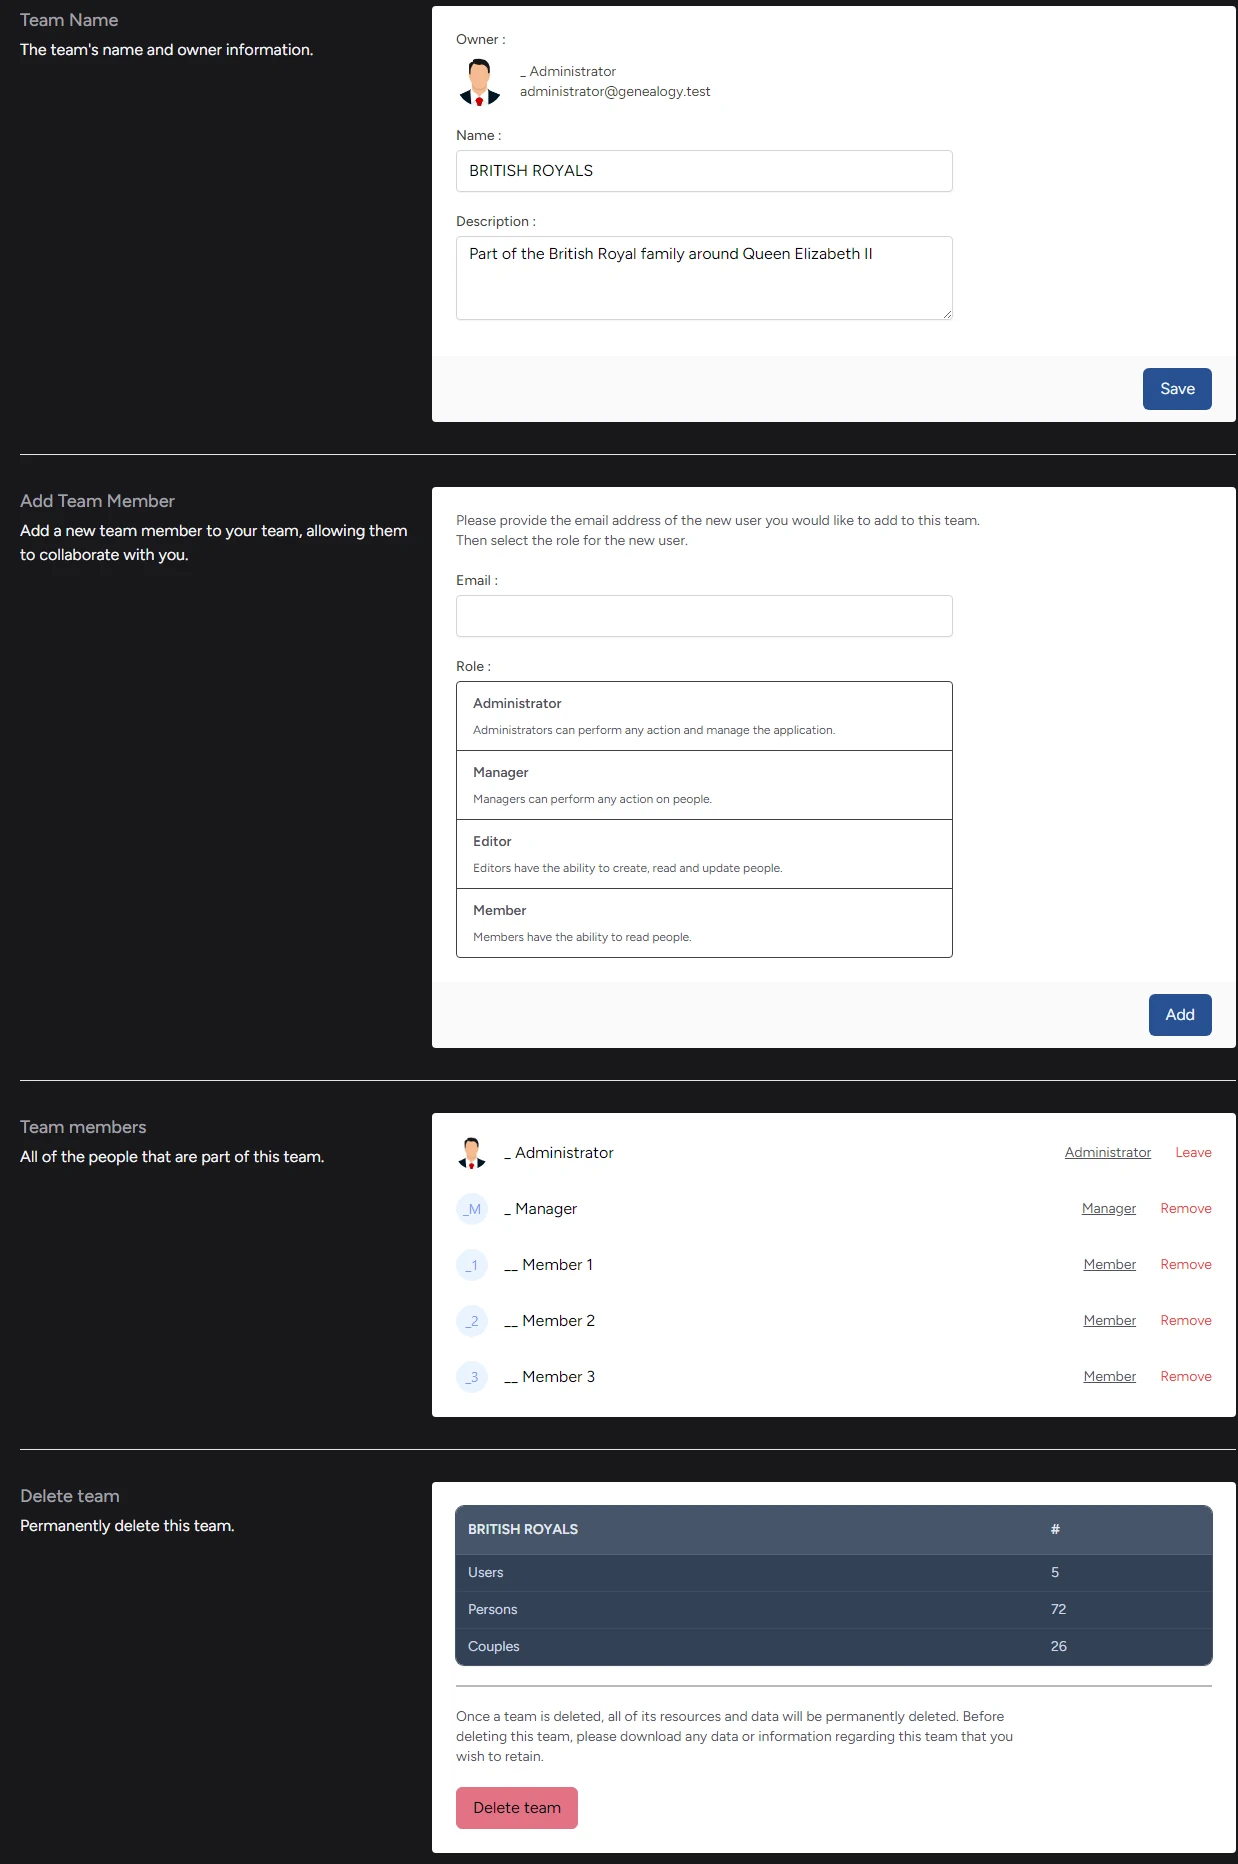
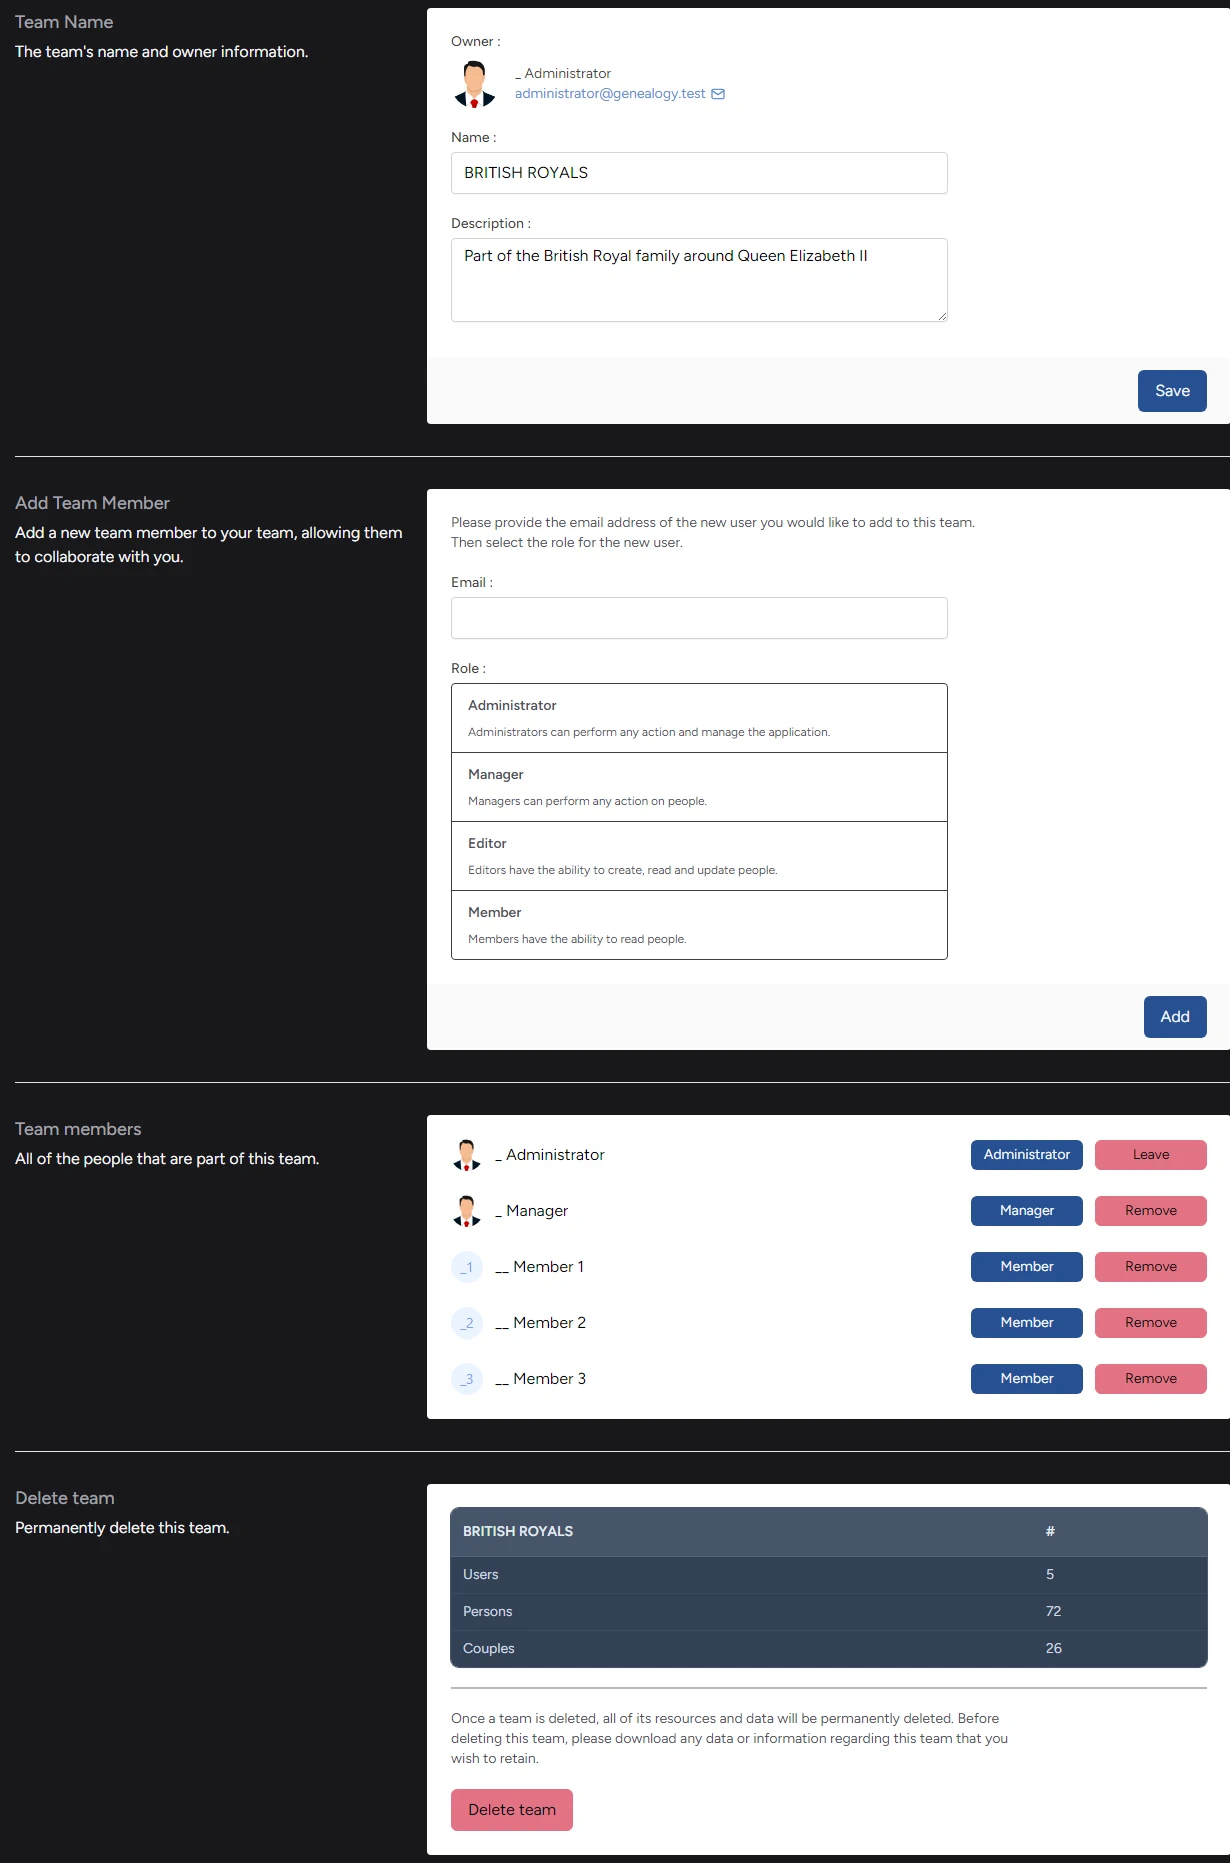
Improved Api Manager and Team Member Manager

diff --git a/resources/views/teams/team-member-manager.blade.php b/resources/views/teams/team-member-manager.blade.php
@@ -144,33 +144,34 @@
                         @foreach ($team->users->sortBy('name') as $user)
                             <div class="flex items-center justify-between">
                                 <div class="flex items-center">
-                                    <img class="w-8 h-8 rounded-full object-cover" src="{{ $user->profile_photo_url }}" alt="{{ $user->name }}">
-                                    <div class="ms-4">{{ $user->name }}</div>
+                                    <img class="size-8 rounded-full object-cover" src="{{ $user->profile_photo_url }}" alt="{{ $user->name }}">
+                                    <div class="ms-3">{{ $user->name }}</div>
                                 </div>
 
                                 <div class="flex items-center">
                                     {{-- manage team member role --}}
                                     @if (Gate::check('updateTeamMember', $team) && Laravel\Jetstream\Jetstream::hasRoles())
-                                        <button class="ms-2 text-sm text-gray-600 underline" wire:click="manageRole('{{ $user->id }}')">
+                                        <x-ts-button sm class="min-w-28 ms-3 text-sm" wire:click="manageRole('{{ $user->id }}')" title="{{ __('team.change_role') }}">
                                             {{ Laravel\Jetstream\Jetstream::findRole($user->membership->role)->name }}
-                                        </button>
+                                        </x-ts-button>
                                     @elseif (Laravel\Jetstream\Jetstream::hasRoles())
-                                        <div class="ms-2 text-sm text-gray-600">
+                                        <div class="min-w-28 ms-3 text-sm">
                                             {{ Laravel\Jetstream\Jetstream::findRole($user->membership->role)->name }}
                                         </div>
                                     @endif
 
                                     {{-- leave team --}}
                                     @if ($this->user->id === $user->id)
-                                        <button class="cursor-pointer ms-6 text-sm text-red-500" wire:click="$toggle('confirmingLeavingTeam')">
+                                        <x-ts-button color="danger" sm class="min-w-28 ms-3 text-sm" wire:click="$toggle('confirmingLeavingTeam')" title="{{ __('team.leave_team') }}">
                                             {{ __('team.leave') }}
-                                        </button>
+                                        </x-ts-button>
 
                                         {{-- remove team member --}}
                                     @elseif (Gate::check('removeTeamMember', $team))
-                                        <button class="cursor-pointer ms-6 text-sm text-red-500" wire:click="confirmTeamMemberRemoval('{{ $user->id }}')">
+                                        <x-ts-button color="danger" sm class="min-w-28 ms-3 text-sm" wire:click="confirmTeamMemberRemoval('{{ $user->id }}')"
+                                            title="{{ __('team.remove_member') }}">
                                             {{ __('team.remove') }}
-                                        </button>
+                                        </x-ts-button>
                                     @endif
                                 </div>
                             </div>

diff --git a/lang/en/team.php b/lang/en/team.php
@@ -36,15 +36,17 @@ return [
     'team_pending'         => 'Pending Team Invitations',
     'team_pending_message' => 'These people have been invited to your team and have been sent an invitation email. They may join the team by accepting the email invitation.',
 
+    'change_role'          => 'Change role',
     'team_members'         => 'Team members',
     'team_members_message' => 'All of the people that are part of this team.',
     'manage_role'          => 'Manage role',
     'leave'                => 'Leave',
-    'leave_team'           => 'Leave Team',
+    'leave_team'           => 'Leave team',
     'leave_team_sure'      => 'Are you sure you would like to leave this team?',
     'remove'               => 'Remove',
-    'remove_member'        => 'Remove Team Member',
+    'remove_member'        => 'Remove team member',
     'remove_member_sure'   => 'Are you sure you would like to remove this person from the team?',
+    'send_email'           => 'Send email',
 
     'user_not_found'       => 'We were unable to find a registered user with this email address.',
     'user_already_in_team' => 'This user already belongs to the team.',
@@ -63,5 +65,4 @@ return [
     'accept_invitation'          => 'Accept Invitation',
     'discard'                    => 'If you did not expect to receive an invitation to this team, you may discard this email.',
 
-    'send_email' => 'Send email',
 ];

diff --git a/resources/views/api/api-token-manager.blade.php b/resources/views/api/api-token-manager.blade.php
@@ -84,14 +84,15 @@
                                     @endif
 
                                     @if (Laravel\Jetstream\Jetstream::hasPermissions())
-                                        <button class="cursor-pointer ms-6 text-sm text-gray-400 underline" wire:click="manageApiTokenPermissions({{ $token->id }})">
+                                        <x-ts-button sm color="primary" class="min-w-28 ms-3 text-sm" wire:click="manageApiTokenPermissions({{ $token->id }})"
+                                            title="{{ __('api.permissions_edit') }}">
                                             {{ __('api.permissions') }}
-                                        </button>
+                                        </x-ts-button>
                                     @endif
 
-                                    <button class="cursor-pointer ms-6 text-sm text-red-500" wire:click="confirmApiTokenDeletion({{ $token->id }})">
+                                    <x-ts-button sm color="danger" class="min-w-28 ms-3 text-sm" wire:click="confirmApiTokenDeletion({{ $token->id }})" title="{{ __('api.delete_api_token') }}">
                                         {{ __('api.delete') }}
-                                    </button>
+                                    </x-ts-button>
                                 </div>
                             </div>
                         @endforeach

diff --git a/lang/de/team.php b/lang/de/team.php
@@ -35,6 +35,7 @@ return [
     'team_pending'         => 'Ausstehende Teameinladungen',
     'team_pending_message' => 'Diese Personen wurden in Ihr Team eingeladen und haben eine Einladungs-E-Mail erhalten. Sie können dem Team beitreten, indem Sie die E-Mail-Einladung annehmen.',
 
+    'change_role'          => 'Rolle wechseln',
     'team_members'         => 'Teammitglieder',
     'team_members_message' => 'Alle Menschen, die Teil dieses Teams sind.',
     'manage_role'          => 'Rolle verwalten',
@@ -44,6 +45,7 @@ return [
     'remove'               => 'Entfernen',
     'remove_member'        => 'Teammitglied entfernen',
     'remove_member_sure'   => 'Sind Sie sicher, dass Sie diese Person aus dem Team entfernen möchten?',
+    'send_email'           => 'E-Mail senden',
 
     'user_not_found'       => 'Wir konnten keinen registrierten Benutzer mit dieser E-Mail-Adresse finden.',
     'user_already_in_team' => 'Dieser Benutzer gehört bereits zum Team.',
@@ -62,5 +64,4 @@ return [
     'accept_invitation'          => 'Die Einladung annehmen',
     'discard'                    => 'Wenn Sie nicht damit gerechnet haben, eine Einladung zu diesem Team zu erhalten, können Sie diese E-Mail verwerfen.',
 
-    'send_email' => 'Sende E-Mail',
 ];

diff --git a/lang/nl/team.php b/lang/nl/team.php
@@ -35,6 +35,7 @@ return [
     'team_pending'         => 'Teamuitnodigingen in behandeling',
     'team_pending_message' => 'Deze mensen zijn uitgenodigd voor uw team en hebben een uitnodigingsmail ontvangen. Ze kunnen lid worden van het team door de uitnodiging in de e-mail te accepteren.',
 
+    'change_role'          => 'Wijzig rol',
     'team_members'         => 'Leden van het team',
     'team_members_message' => 'Alle personen die deel uitmaken van dit team.',
     'manage_role'          => 'Rol beheren',
@@ -44,6 +45,7 @@ return [
     'remove'               => 'Verwijder',
     'remove_member'        => 'Teamlid verwijderen',
     'remove_member_sure'   => 'Weet u zeker dat u deze persoon uit het team wilt verwijderen?',
+    'send_email'           => 'Verstuur email',
 
     'user_not_found'       => 'We konden geen geregistreerde gebruiker met dit e-mailadres vinden.',
     'user_already_in_team' => 'Deze gebruiker behoort al tot het team.',
@@ -62,5 +64,4 @@ return [
     'accept_invitation'          => 'Uitnodiging accepteren',
     'discard'                    => 'Als u niet verwachtte een uitnodiging voor dit team te ontvangen, kunt u deze e-mail weggooien.',
 
-    'send_email' => 'Verstuur email',
 ];

diff --git a/lang/nl/api.php b/lang/nl/api.php
@@ -20,7 +20,8 @@ return [
     'manage_api_tokens' => 'Beheer API-tokens',
     'may_delete'        => 'U kunt al uw bestaande tokens verwijderen als ze niet langer nodig zijn.',
 
-    'permissions' => 'Rechten',
+    'permissions' => 'Machtigingen',
+    'permissions_edit' => "Machtigingen bewerkens",
     'please_copy' => 'Kopieer uw nieuwe API-token. Voor uw veiligheid wordt deze niet opnieuw weergegeven.',
 
     'save' => 'Bewaren',

diff --git a/lang/de/api.php b/lang/de/api.php
@@ -21,6 +21,7 @@ return [
     'may_delete'        => 'Sie können alle Ihre vorhandenen Token löschen, wenn sie nicht mehr benötigt werden.',
 
     'permissions' => 'Berechtigungen',
+    'permissions_edit' => "Berechtigungen bearbeiten",
     'please_copy' => 'Bitte kopieren Sie Ihr neues API-Token. Zu Ihrer Sicherheit wird es nicht erneut angezeigt.',
 
     'save' => 'Speichern',

diff --git a/lang/en/api.php b/lang/en/api.php
@@ -21,6 +21,7 @@ return [
     'may_delete'        => 'You may delete any of your existing tokens if they are no longer needed.',
 
     'permissions' => 'Permissions',
+    'permissions_edit' => "Edit permissions",
     'please_copy' => 'Please copy your new API token. For your security, it won\'t be shown again.',
 
     'save' => 'Save',
